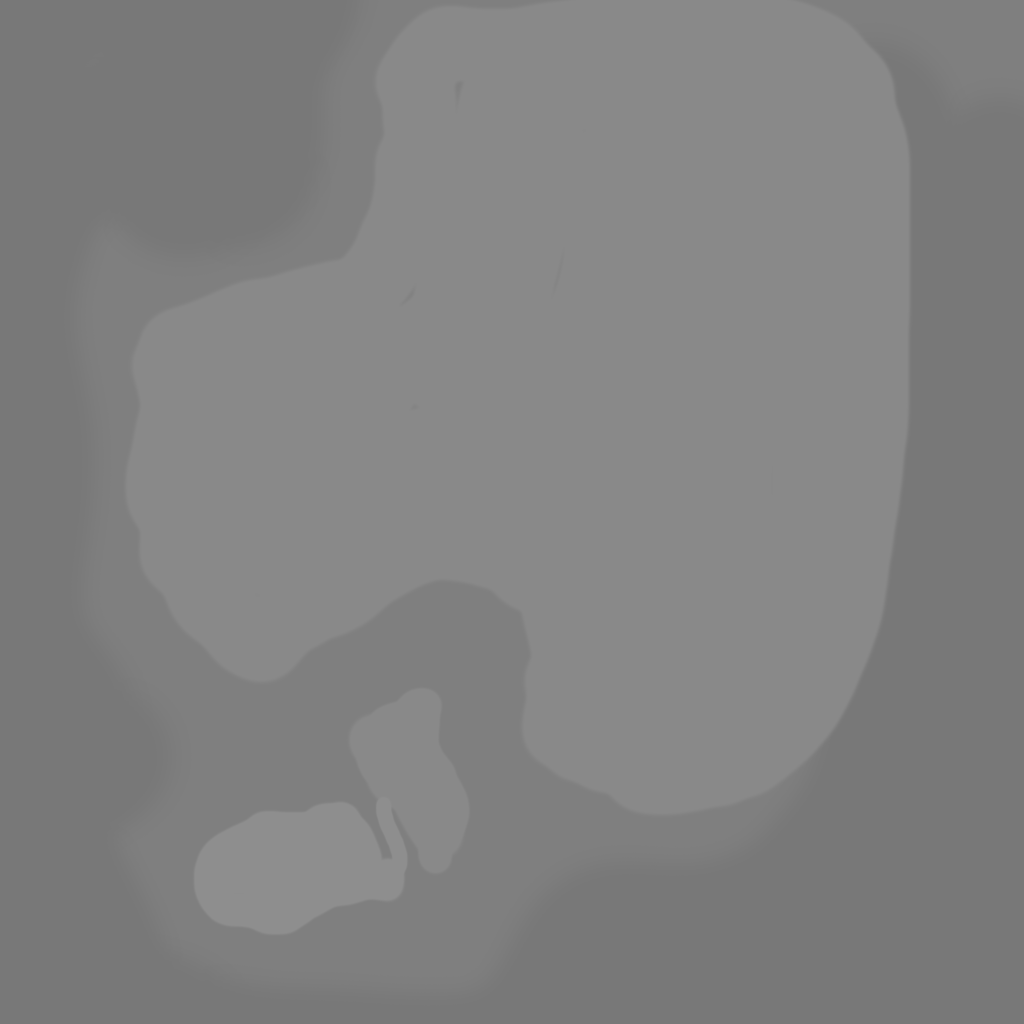
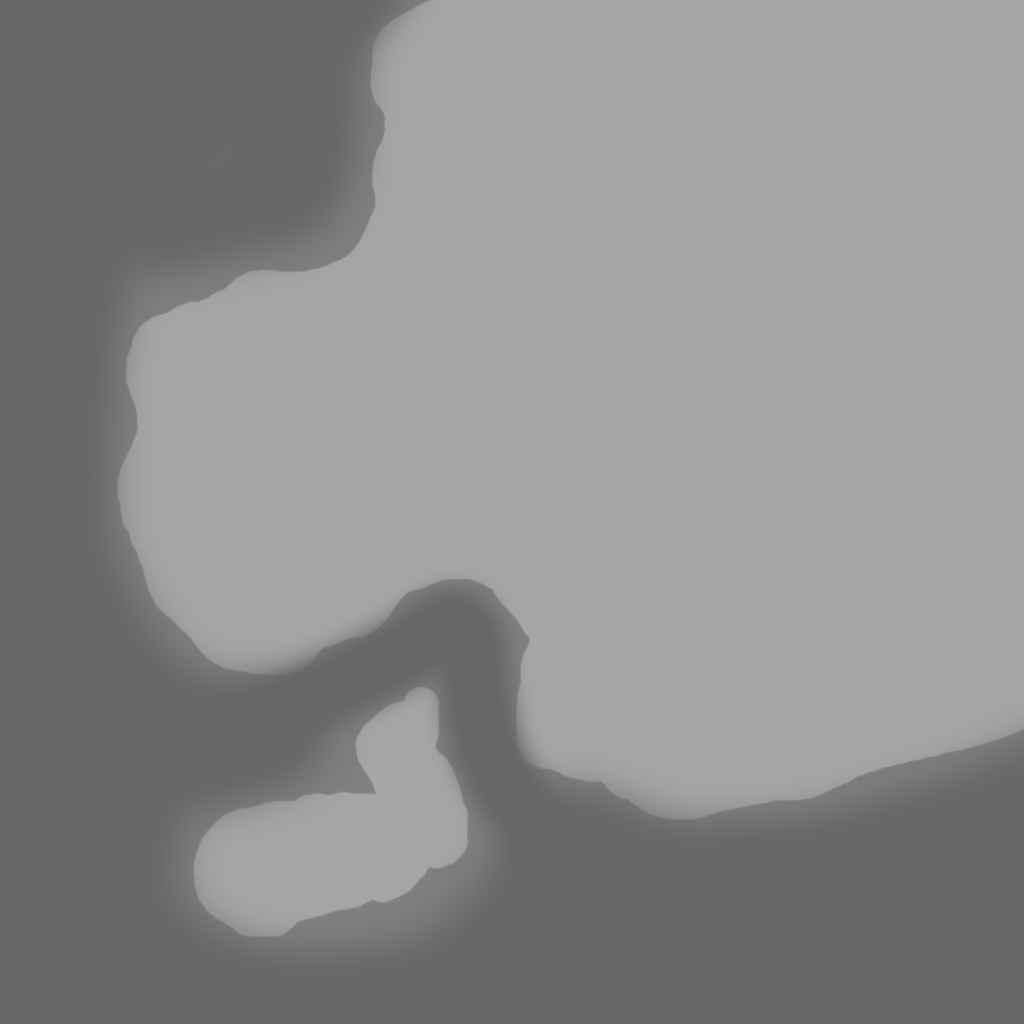
stuff

diff --git a/Engine/GraphicsApi_D3D12/GxapiManager.cpp b/Engine/GraphicsApi_D3D12/GxapiManager.cpp
@@ -58,15 +58,9 @@ private:
 
 
 GxapiManager::GxapiManager() {
-	// create a dxgi factory
 	if (FAILED(CreateDXGIFactory2(DXGI_CREATE_FACTORY_DEBUG, IID_PPV_ARGS(&m_factory)))) {
 		// it is not supposed to fail unless you call it from a dll main
 		throw InvalidCallException("Are you calling this from a DllMain...? See, that's the problem.");
-	}
-
-	// Enable debug layer
-	if (SUCCEEDED(D3D12GetDebugInterface(IID_PPV_ARGS(&m_debugController)))) {
-		m_debugController->EnableDebugLayer();
 	}
 }
 
@@ -133,6 +127,13 @@ std::vector<AdapterInfo> GxapiManager::EnumerateAdapters() {
 	}
 
 	return adapterInfos;
+}
+
+
+void GxapiManager::EnableDebugLayer() {
+	if (SUCCEEDED(D3D12GetDebugInterface(IID_PPV_ARGS(&m_debugController)))) {
+		m_debugController->EnableDebugLayer();
+	}
 }
 
 

diff --git a/Engine/GraphicsFoundationLibrary/Drawing/RenderForwardHeightmaps.cpp b/Engine/GraphicsFoundationLibrary/Drawing/RenderForwardHeightmaps.cpp
@@ -84,7 +84,7 @@ static const PipelineStateTemplate psoTemplate = [] {
 	psoTemplate.dsFileName = "RenderForwardHeightmaps.hlsl";
 	psoTemplate.psFileName = "RenderForwardHeightmaps.hlsl";
 
-	psoTemplate.rasterization = gxapi::RasterizerState{ gxapi::eFillMode::WIREFRAME, gxapi::eCullMode::DRAW_ALL };
+	psoTemplate.rasterization = gxapi::RasterizerState{ .fillMode = gxapi::eFillMode::SOLID, .cullMode = gxapi::eCullMode::DRAW_ALL, .depthClipEnabled = true};
 	psoTemplate.primitiveTopologyType = gxapi::ePrimitiveTopologyType::PATCH;
 
 	psoTemplate.depthStencilState = gxapi::DepthStencilState{ .enableDepthTest = true, .enableDepthStencilWrite = true, .enableStencilTest = false };

diff --git a/Test/Test_Game/TestLevelSystem.cpp b/Test/Test_Game/TestLevelSystem.cpp
@@ -137,8 +137,8 @@ void TestLevelSystem::Load(inl::game::Scene& scene, inl::game::ComponentFactory&
 	hmTerrainComponent.entity->SetMaterial(graphicsModule.LoadMaterial(hmTerrainComponent.materialPath));
 	hmTerrainComponent.entity->SetHeightmap(graphicsModule.LoadImage(hmTerrainComponent.heightmapPath));
 	hmTerrainComponent.entity->SetUvSize({ 5, 5 });
-	hmTerrainComponent.entity->SetMagnitude(25.5f);
-	hmTerrainComponent.entity->SetOffset(-12.7f);
+	hmTerrainComponent.entity->SetMagnitude(2.0f);
+	hmTerrainComponent.entity->SetOffset(-1.f);
 	graphicsScene.GetEntities<gxeng::IHeightmapEntity>().Add(hmTerrainComponent.entity.get());
 
 	TransformComponent hmTerrainTransform;

diff --git a/Test/Test_Game/EngineCollection.cpp b/Test/Test_Game/EngineCollection.cpp
@@ -7,6 +7,10 @@
 EngineCollection::EngineCollection(inl::WindowHandle windowHandle) {
 	m_gxapiManager = std::make_unique<inl::gxapi_dx12::GxapiManager>();
 
+#if defined(_DEBUG) || !defined(_WIN32)
+	m_gxapiManager->EnableDebugLayer();
+#endif
+
 	// Get first hardware adapter, if none, get software, if none, quit.
 	auto graphicsAdapters = m_gxapiManager->EnumerateAdapters();
 	int graphicsAdapterId = -1;

diff --git a/Engine/GraphicsApi_D3D12/GxapiManager.hpp b/Engine/GraphicsApi_D3D12/GxapiManager.hpp
@@ -15,6 +15,7 @@ public:
 	GxapiManager();
 
 	std::vector<gxapi::AdapterInfo> EnumerateAdapters() override;
+	void EnableDebugLayer() override;
 
 	gxapi::ISwapChain* CreateSwapChain(gxapi::SwapChainDesc desc, gxapi::ICommandQueue* flushThisQueue) override;
 	gxapi::IGraphicsApi* CreateGraphicsApi(unsigned adapterId) override;

diff --git a/Engine/GraphicsApi_LL/IGxapiManager.hpp b/Engine/GraphicsApi_LL/IGxapiManager.hpp
@@ -31,6 +31,7 @@ public:
 	virtual ~IGxapiManager() = default;
 
 	virtual std::vector<AdapterInfo> EnumerateAdapters() = 0;
+	virtual void EnableDebugLayer() = 0;
 
 	virtual ISwapChain* CreateSwapChain(SwapChainDesc desc, ICommandQueue* flushThisQueue) = 0;
 	virtual IGraphicsApi* CreateGraphicsApi(unsigned adapterId) = 0;

diff --git a/Engine/GraphicsFoundationLibrary/Drawing/ClearDepthStencil.cpp b/Engine/GraphicsFoundationLibrary/Drawing/ClearDepthStencil.cpp
@@ -35,7 +35,7 @@ void ClearDepthStencil::Execute(RenderContext& context) {
 }
 
 const std::string& ClearDepthStencil::GetInputName(size_t index) const {
-	static const std::array<std::string, 3> names = {
+	static const std::array<std::string, 5> names = {
 		"DepthStencilIn",
 		"DepthValue",
 		"StencilValue"
